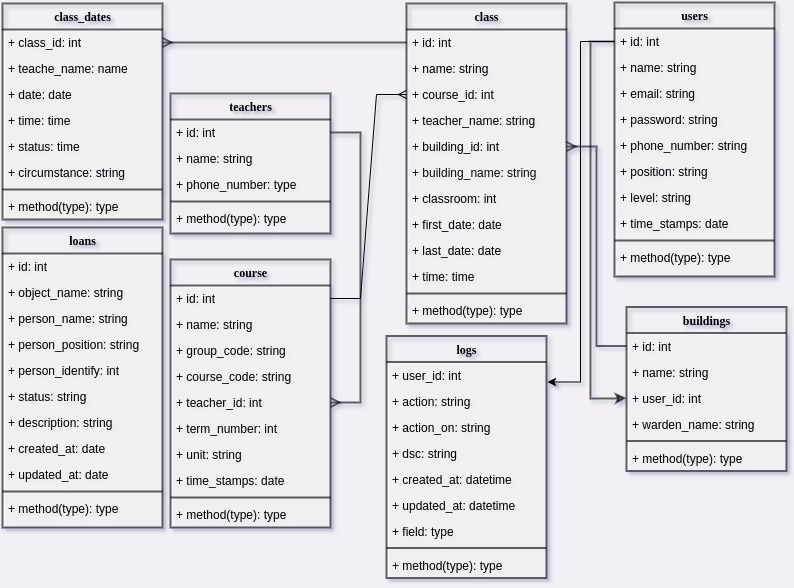
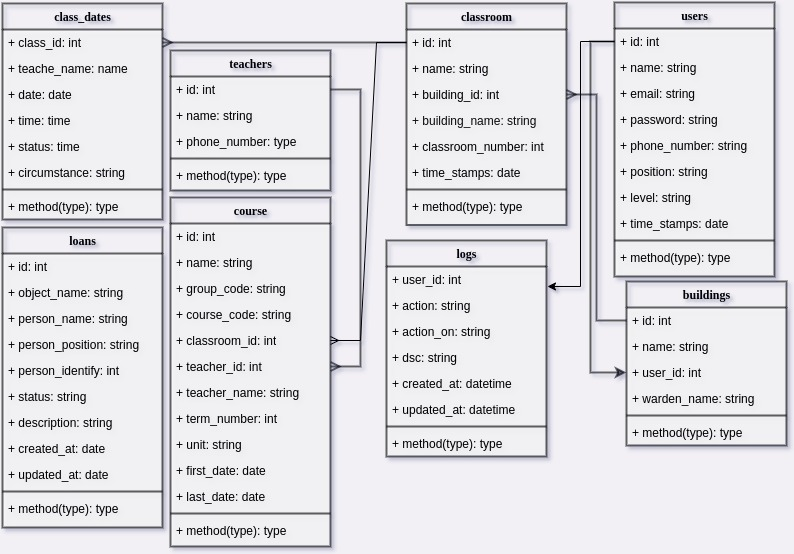
create ClassRoom model with all

diff --git a/Education/app/Policies/ClassRoomPolicy.php b/Education/app/Policies/ClassRoomPolicy.php
@@ -1,0 +1,94 @@
+<?php
+
+namespace App\Policies;
+
+use App\Models\ClassRoom;
+use App\Models\User;
+use Illuminate\Auth\Access\HandlesAuthorization;
+
+class ClassRoomPolicy
+{
+    use HandlesAuthorization;
+
+    /**
+     * Determine whether the user can view any models.
+     *
+     * @param  \App\Models\User  $user
+     * @return \Illuminate\Auth\Access\Response|bool
+     */
+    public function viewAny(User $user)
+    {
+        //
+    }
+
+    /**
+     * Determine whether the user can view the model.
+     *
+     * @param  \App\Models\User  $user
+     * @param  \App\Models\ClassRoom  $classRoom
+     * @return \Illuminate\Auth\Access\Response|bool
+     */
+    public function view(User $user, ClassRoom $classRoom)
+    {
+        //
+    }
+
+    /**
+     * Determine whether the user can create models.
+     *
+     * @param  \App\Models\User  $user
+     * @return \Illuminate\Auth\Access\Response|bool
+     */
+    public function create(User $user)
+    {
+        //
+    }
+
+    /**
+     * Determine whether the user can update the model.
+     *
+     * @param  \App\Models\User  $user
+     * @param  \App\Models\ClassRoom  $classRoom
+     * @return \Illuminate\Auth\Access\Response|bool
+     */
+    public function update(User $user, ClassRoom $classRoom)
+    {
+        //
+    }
+
+    /**
+     * Determine whether the user can delete the model.
+     *
+     * @param  \App\Models\User  $user
+     * @param  \App\Models\ClassRoom  $classRoom
+     * @return \Illuminate\Auth\Access\Response|bool
+     */
+    public function delete(User $user, ClassRoom $classRoom)
+    {
+        //
+    }
+
+    /**
+     * Determine whether the user can restore the model.
+     *
+     * @param  \App\Models\User  $user
+     * @param  \App\Models\ClassRoom  $classRoom
+     * @return \Illuminate\Auth\Access\Response|bool
+     */
+    public function restore(User $user, ClassRoom $classRoom)
+    {
+        //
+    }
+
+    /**
+     * Determine whether the user can permanently delete the model.
+     *
+     * @param  \App\Models\User  $user
+     * @param  \App\Models\ClassRoom  $classRoom
+     * @return \Illuminate\Auth\Access\Response|bool
+     */
+    public function forceDelete(User $user, ClassRoom $classRoom)
+    {
+        //
+    }
+}

diff --git a/Education/app/Http/Controllers/ClassRoomController.php b/Education/app/Http/Controllers/ClassRoomController.php
@@ -1,0 +1,86 @@
+<?php
+
+namespace App\Http\Controllers;
+
+use App\Http\Requests\StoreClassRoomRequest;
+use App\Http\Requests\UpdateClassRoomRequest;
+use App\Models\ClassRoom;
+
+class ClassRoomController extends Controller
+{
+    /**
+     * Display a listing of the resource.
+     *
+     * @return \Illuminate\Http\Response
+     */
+    public function index()
+    {
+        //
+    }
+
+    /**
+     * Show the form for creating a new resource.
+     *
+     * @return \Illuminate\Http\Response
+     */
+    public function create()
+    {
+        //
+    }
+
+    /**
+     * Store a newly created resource in storage.
+     *
+     * @param  \App\Http\Requests\StoreClassRoomRequest  $request
+     * @return \Illuminate\Http\Response
+     */
+    public function store(StoreClassRoomRequest $request)
+    {
+        //
+    }
+
+    /**
+     * Display the specified resource.
+     *
+     * @param  \App\Models\ClassRoom  $classRoom
+     * @return \Illuminate\Http\Response
+     */
+    public function show(ClassRoom $classRoom)
+    {
+        //
+    }
+
+    /**
+     * Show the form for editing the specified resource.
+     *
+     * @param  \App\Models\ClassRoom  $classRoom
+     * @return \Illuminate\Http\Response
+     */
+    public function edit(ClassRoom $classRoom)
+    {
+        //
+    }
+
+    /**
+     * Update the specified resource in storage.
+     *
+     * @param  \App\Http\Requests\UpdateClassRoomRequest  $request
+     * @param  \App\Models\ClassRoom  $classRoom
+     * @return \Illuminate\Http\Response
+     */
+    public function update(UpdateClassRoomRequest $request, ClassRoom $classRoom)
+    {
+        //
+    }
+
+    /**
+     * Remove the specified resource from storage.
+     *
+     * @param  \App\Models\ClassRoom  $classRoom
+     * @return \Illuminate\Http\Response
+     */
+    public function destroy(ClassRoom $classRoom)
+    {
+        //
+    }
+}

diff --git a/Education/database/migrations/2022_12_08_092222_create_class_rooms_table.php b/Education/database/migrations/2022_12_08_092222_create_class_rooms_table.php
@@ -13,11 +13,12 @@ return new class extends Migration
      */
     public function up()
     {
-        Schema::create('teachers', function (Blueprint $table) {
+        Schema::create('class_rooms', function (Blueprint $table) {
             $table->id();
             $table->string('name')->fulltext();
-            $table->string('phone_number', 13)->fulltext();
-            $table->string('email')->nullable()->fulltext();
+            $table->foreign('building_id')->references('id')->on('buildings');
+            $table->string('building_name')->fulltext();
+            $table->unsignedInteger('classroom_number');
             $table->timestamps();
         });
     }
@@ -29,6 +30,6 @@ return new class extends Migration
      */
     public function down()
     {
-        Schema::dropIfExists('teachers');
+        Schema::dropIfExists('class_rooms');
     }
 };

diff --git a/Education/database/migrations/2014_10_12_000000_create_users_table.php b/Education/database/migrations/2014_10_12_000000_create_users_table.php
@@ -15,11 +15,11 @@ return new class extends Migration
     {
         Schema::create('users', function (Blueprint $table) {
             $table->id();
-            $table->string('name');
-            $table->string('email')->unique();
+            $table->string('name')->fulltext();
+            $table->string('email')->unique()->fulltext();
             $table->timestamp('email_verified_at')->nullable();
             $table->string('password');
-            $table->string('phone_number', '13')->nullable();
+            $table->string('phone_number', '13')->nullable()->fulltext();
             $table->rememberToken();
 //            $table->foreignId('current_team_id')->nullable();
             $table->string('position')->default('clerk');

diff --git a/Education/app/Http/Requests/UpdateClassRoomRequest.php b/Education/app/Http/Requests/UpdateClassRoomRequest.php
@@ -1,0 +1,30 @@
+<?php
+
+namespace App\Http\Requests;
+
+use Illuminate\Foundation\Http\FormRequest;
+
+class UpdateClassRoomRequest extends FormRequest
+{
+    /**
+     * Determine if the user is authorized to make this request.
+     *
+     * @return bool
+     */
+    public function authorize()
+    {
+        return false;
+    }
+
+    /**
+     * Get the validation rules that apply to the request.
+     *
+     * @return array<string, mixed>
+     */
+    public function rules()
+    {
+        return [
+            //
+        ];
+    }
+}

diff --git a/Education/app/Http/Requests/StoreClassRoomRequest.php b/Education/app/Http/Requests/StoreClassRoomRequest.php
@@ -1,0 +1,30 @@
+<?php
+
+namespace App\Http\Requests;
+
+use Illuminate\Foundation\Http\FormRequest;
+
+class StoreClassRoomRequest extends FormRequest
+{
+    /**
+     * Determine if the user is authorized to make this request.
+     *
+     * @return bool
+     */
+    public function authorize()
+    {
+        return false;
+    }
+
+    /**
+     * Get the validation rules that apply to the request.
+     *
+     * @return array<string, mixed>
+     */
+    public function rules()
+    {
+        return [
+            //
+        ];
+    }
+}

diff --git a/Education/database/factories/ClassRoomFactory.php b/Education/database/factories/ClassRoomFactory.php
@@ -1,0 +1,23 @@
+<?php
+
+namespace Database\Factories;
+
+use Illuminate\Database\Eloquent\Factories\Factory;
+
+/**
+ * @extends \Illuminate\Database\Eloquent\Factories\Factory<\App\Models\ClassRoom>
+ */
+class ClassRoomFactory extends Factory
+{
+    /**
+     * Define the model's default state.
+     *
+     * @return array<string, mixed>
+     */
+    public function definition()
+    {
+        return [
+            //
+        ];
+    }
+}

diff --git a/Education/database/seeders/ClassRoomSeeder.php b/Education/database/seeders/ClassRoomSeeder.php
@@ -1,0 +1,19 @@
+<?php
+
+namespace Database\Seeders;
+
+use Illuminate\Database\Console\Seeds\WithoutModelEvents;
+use Illuminate\Database\Seeder;
+
+class ClassRoomSeeder extends Seeder
+{
+    /**
+     * Run the database seeds.
+     *
+     * @return void
+     */
+    public function run()
+    {
+        //
+    }
+}

diff --git a/Education/app/Models/ClassRoom.php b/Education/app/Models/ClassRoom.php
@@ -1,0 +1,11 @@
+<?php
+
+namespace App\Models;
+
+use Illuminate\Database\Eloquent\Factories\HasFactory;
+use Illuminate\Database\Eloquent\Model;
+
+class ClassRoom extends Model
+{
+    use HasFactory;
+}
